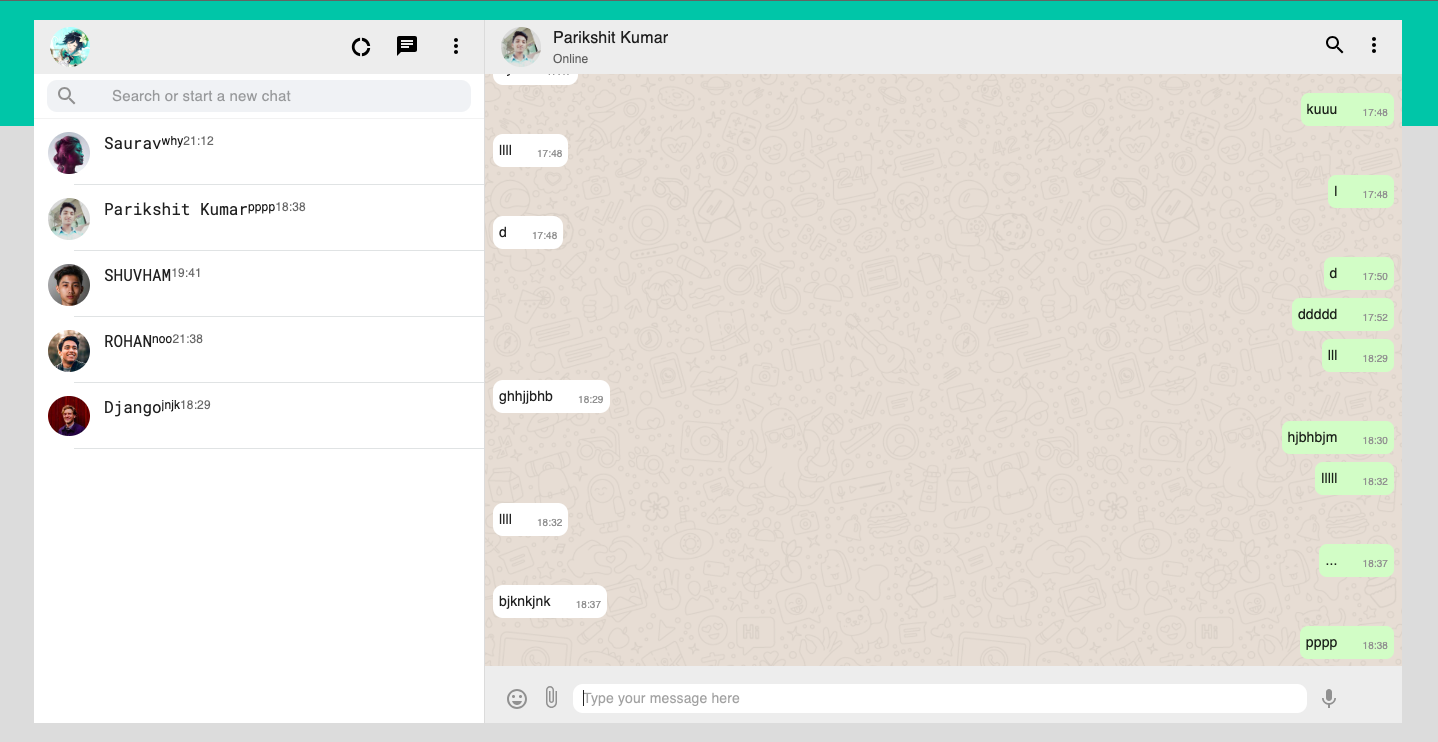
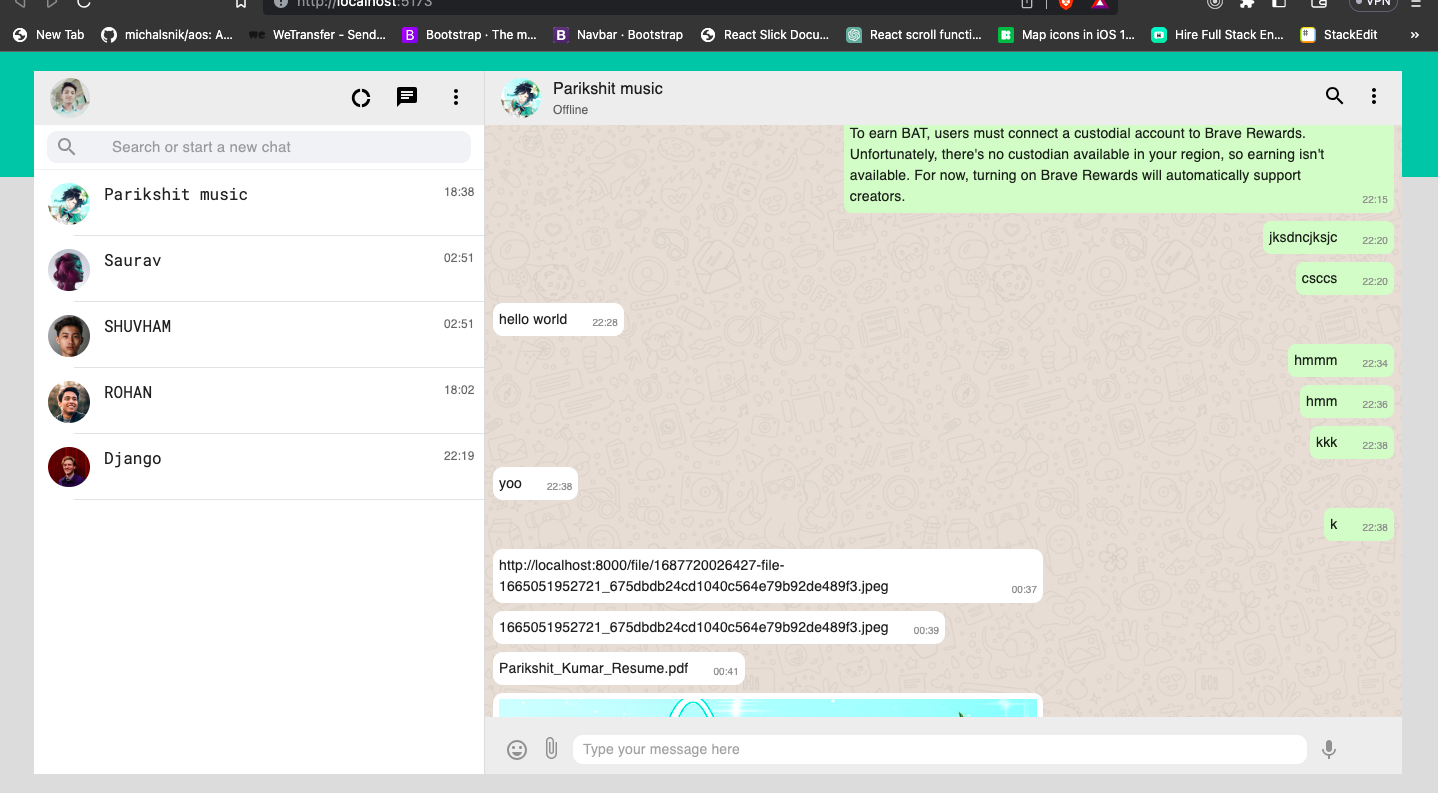
replaced pic

diff --git a/client/src/components/chat/menu/Conversation.jsx b/client/src/components/chat/menu/Conversation.jsx
@@ -8,7 +8,6 @@ const Component = styled(Box)`
   display: flex;
   height: 65px;
   cursor: pointer;
-  // align-items: center;
   padding: 13px 0;
 `;
 
@@ -62,12 +61,12 @@ const Conversation = ({ user }) => {
           <Image src={user.picture} alt="" />
         </Box>
         <Box>{user.name}</Box>
-        <Box style={{ overflow: "hidden" }}>
+        {/* <Box style={{ overflow: "hidden" }}>
           <Text>
             {message?.text?.includes("localhost") ? "media" : message?.text[0]}
           </Text>
-        </Box>
-        <Box style={{ width: "40px" }}>
+        </Box> */}
+        <Box style={{ display: "flex", width: "40px", marginLeft: "auto" }}>
           <Container>
             {message?.text && <Time>{formatDate(message?.timestamp)}</Time>}
           </Container>

diff --git a/client/vite.config.js b/client/vite.config.js
@@ -1,7 +1,6 @@
 import { defineConfig } from "vite";
 import react from "@vitejs/plugin-react-swc";
 
-// https://vitejs.dev/config/
 export default defineConfig({
   plugins: [react()],
   server: {
